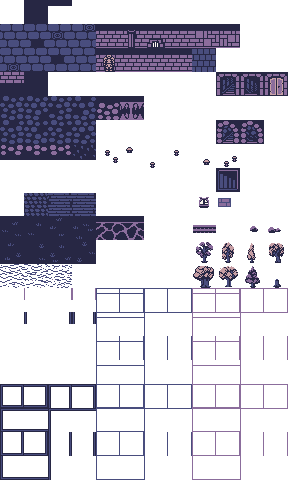
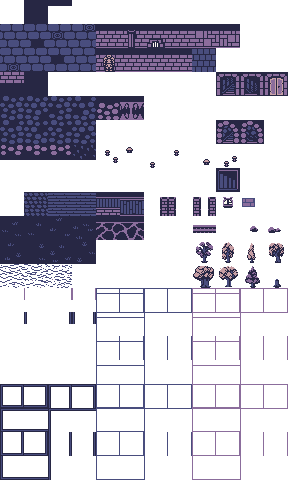
templates, structures, village level

diff --git a/core/src/main/com/ovle/rll3/model/procedural/grid/processor/StructureProcessor.kt b/core/src/main/com/ovle/rll3/model/procedural/grid/processor/StructureProcessor.kt
@@ -1,0 +1,85 @@
+package com.ovle.rll3.model.procedural.grid.processor
+
+import com.badlogic.ashley.core.Engine
+import com.badlogic.ashley.core.Entity
+import com.badlogic.gdx.math.GridPoint2
+import com.ovle.rll3.component1
+import com.ovle.rll3.component2
+import com.ovle.rll3.floatPoint
+import com.ovle.rll3.model.ecs.component.special.LevelDescription
+import com.ovle.rll3.model.ecs.component.special.LevelInfo
+import com.ovle.rll3.model.ecs.component.util.Mappers
+import com.ovle.rll3.model.ecs.entity.newTemplatedEntity
+import com.ovle.rll3.model.template.entity.entityTemplate
+import com.ovle.rll3.model.template.structure.StructureTemplate
+import com.ovle.rll3.model.template.structure.StructureTemplates
+import com.ovle.rll3.model.tile.Tile
+import com.ovle.rll3.model.tile.TileArray
+import com.ovle.rll3.model.tile.TileType
+import com.ovle.rll3.model.tile.whateverTileId
+import com.ovle.rll3.point
+import ktx.ashley.get
+
+data class StructureInfo(val template: StructureTemplate, val positions: Set<GridPoint2>)
+
+class StructureProcessor(val templates: StructureTemplates) : TilesProcessor {
+
+    override fun process(levelInfo: LevelInfo, gameEngine: Engine, levelDescription: LevelDescription) {
+        val tiles = levelInfo.tiles
+        val entities = mutableListOf<Entity>()
+
+        //todo
+        val template = templates.templates.singleOrNull { it.name == "house 1" } ?: return
+        val mask = template.parsedMask
+        val maskWidth = mask.size
+        val maskHeight = mask.maxBy { it.size }!!.size
+
+        val check = Math.random()
+        val chance = 1.0
+        val needSpawn = check <= chance
+
+        //spawn point is the left top corner of mask
+        val spawnPoint = spawnPoint()
+        val (x, y) = spawnPoint
+        if (needSpawn) {
+            val positions = spawnStructure(mask, tiles, y, x)
+            levelInfo.structures.add(StructureInfo(template, positions))
+
+            val entitiesInfo = template.entities
+            entitiesInfo.forEach{
+                (templateName, points) -> spawnEntities(templateName, points, gameEngine, spawnPoint, entities)
+            }
+        }
+
+        levelInfo.objects.plusAssign(entities)
+    }
+
+    private fun spawnEntities(templateName: String, points: Array<Pair<Int, Int>>, gameEngine: Engine, spawnPoint: GridPoint2, entities: MutableList<Entity>) {
+        val entityTemplate = entityTemplate(name = templateName)
+        points.forEach {(x, y) ->
+            val entity = newTemplatedEntity(entityTemplate, gameEngine)
+            entity[Mappers.position]?.position = floatPoint(spawnPoint.x + x.toFloat(), spawnPoint.y - y.toFloat())
+            entities.add(entity)
+        }
+    }
+
+    private fun spawnStructure(mask: List<List<TileType>>, tiles: TileArray, y: Int, x: Int): Set<GridPoint2> {
+        val result = mutableSetOf<GridPoint2>()
+        mask.forEachIndexed { i, _ ->
+            mask[i].forEachIndexed { j, _ ->
+                val tileType = mask[i][j]
+                if (tileType != whateverTileId) {
+                    val resultX = y + j
+                    val resultY = x - i
+
+                    tiles.setTile(resultX, resultY, Tile(tileType))
+                    result.add(point(resultX, resultY))
+                }
+            }
+        }
+        return result
+    }
+
+    //todo
+    private fun spawnPoint() = point(10, 10)
+}

diff --git a/core/src/main/com/ovle/rll3/view/layer/level/village.kt b/core/src/main/com/ovle/rll3/view/layer/level/village.kt
@@ -25,7 +25,7 @@ fun villageTileToTexture(params: TileToTextureParams): TileTextureInfo {
 
     val entities = entitiesOnPosition(levelInfo, position)
     fun hasLevelConnection(x: Int, y: Int): Boolean = hasEntityOnPosition(levelInfo, point(x, y), LevelConnectionComponent::class)
-    fun hasWall(tileId: TileType?) = if (tileId == null || (tileId == wallTileId)) 1 else 0
+    fun hasWall(tileId: TileType?) = if (tileId == null || (tileId == wallTileId) || (tileId == structureWallTileId)) 1 else 0
     fun hasPit(tileId: TileType?) = if (tileId == pitFloorTileId) 1 else 0
 
     val upTileId = nearTiles.upValue?.typeId
@@ -44,10 +44,17 @@ fun villageTileToTexture(params: TileToTextureParams): TileTextureInfo {
     val tileId = nearTiles.value?.typeId
     val isWall = tileId == wallTileId
     val isNextToFloor = upTileId in floorTypes
+    val isRightToFloor = rightTileId in floorTypes
+    val isLeftToFloor = leftTileId in floorTypes
+
+    val isNextToStructureFloor = upTileId == structureFloorTileId
     val isFloor = tileId == roomFloorTileId
     val isPitFloor = tileId == pitFloorTileId
     val isFloorUp = downTileId == roomFloorTileId
     val isPitFloorUp = downTileId == pitFloorTileId
+
+    val isStructureFloor = tileId == structureFloorTileId
+    val isStructureWall = tileId == structureWallTileId
 
     val isLevelConnection = hasLevelConnection(nearTiles.x, nearTiles.y)
     val lightValueType = lightValueType(lightInfo, position, positionDown, isPitFloor, isFloorUp, isWall, false)
@@ -68,11 +75,15 @@ fun villageTileToTexture(params: TileToTextureParams): TileTextureInfo {
     var animationInterval = defaultAnimationInterval * 2
     val tileRegions =  when (layerType) {
         LayerType.Walls -> when {
-            isWall -> arrayOf(indexedTextureTile(wallBorderTileSet, wallBorderTileIndex, regions))
-            isFloor -> arrayOf(indexedTextureTile(floorBorderTileSet, floorBorderTileIndex, regions))
+            isWall || isStructureWall -> arrayOf(indexedTextureTile(wallBorderTileSet, wallBorderTileIndex, regions))
+            isFloor || isStructureFloor-> arrayOf(indexedTextureTile(floorBorderTileSet, floorBorderTileIndex, regions))
             else -> emptyTile
         }
         LayerType.Floor -> when {
+            isStructureWall && isNextToStructureFloor -> arrayOf(regions[8][5])
+            isStructureWall && isNextToFloor -> arrayOf(regions[8][4])
+            isStructureFloor -> arrayOf(regions[8][(2..3).random()])
+
             isWall && isNextToFloor -> arrayOf(regions[9][(4..5).random()])
             isFloor -> arrayOf(regions[(9..10).random()][(0..3).random()])
             isPitFloor -> arrayOf(
@@ -90,6 +101,11 @@ fun villageTileToTexture(params: TileToTextureParams): TileTextureInfo {
                     type == Down -> arrayOf(regions[7][9])
                     else -> throw IllegalStateException("bad connection : type = $type")
                 }
+            }
+            isStructureWall && isNextToFloor && !isNextToStructureFloor -> when {
+                isRightToFloor -> arrayOf(regions[8][6])
+                isLeftToFloor -> arrayOf(regions[8][7])
+                else -> emptyTile
             }
             else -> emptyTile
         }

diff --git a/core/src/main/com/ovle/rll3/model/procedural/config/levelParams.kt b/core/src/main/com/ovle/rll3/model/procedural/config/levelParams.kt
@@ -6,12 +6,14 @@ import com.ovle.rll3.model.procedural.config.LevelFactoryParams.DungeonLevelFact
 import com.ovle.rll3.model.procedural.grid.factory.CelullarAutomataGridFactory
 import com.ovle.rll3.model.procedural.grid.factory.DungeonGridFactory
 import com.ovle.rll3.model.procedural.grid.factory.NoiseGridFactory
-import com.ovle.rll3.model.procedural.grid.processor.EntityTemplatesProcessor
+import com.ovle.rll3.model.procedural.grid.processor.EntityProcessor
 import com.ovle.rll3.model.procedural.grid.processor.RoomStructureProcessor
 import com.ovle.rll3.model.procedural.grid.processor.RoomsInfoProcessor
+import com.ovle.rll3.model.procedural.grid.processor.StructureProcessor
 import com.ovle.rll3.model.procedural.grid.utils.ConnectionStrategy
 import com.ovle.rll3.model.template.TemplatesType.*
 import com.ovle.rll3.model.template.entity.entityTemplates
+import com.ovle.rll3.model.template.structure.structureTemplates
 import com.ovle.rll3.model.util.*
 import com.ovle.rll3.view.layer.level.caveTileToTexture
 import com.ovle.rll3.view.layer.level.dungeonTileToTexture
@@ -31,7 +33,7 @@ val dungeonLevelParams = LevelParams(
     postProcessors = arrayOf(
         RoomsInfoProcessor(),
         RoomStructureProcessor(),
-        EntityTemplatesProcessor(entityTemplates(Dungeon))
+        EntityProcessor(entityTemplates(Dungeon))
     ),
 
     gridValueToTileType = ::dungeonGridValueToTileType,
@@ -46,7 +48,7 @@ val caveLevelParams = LevelParams(
     ),
     gridFactory = CelullarAutomataGridFactory(),
     postProcessors = arrayOf(
-        EntityTemplatesProcessor(entityTemplates(Caves))
+        EntityProcessor(entityTemplates(Caves))
     ),
 
     gridValueToTileType = ::caveGridValueToTileType,
@@ -62,7 +64,8 @@ val villageLevelParams = LevelParams(
     ),
     gridFactory = NoiseGridFactory(),
     postProcessors = arrayOf(
-        EntityTemplatesProcessor(entityTemplates(Village))
+        StructureProcessor(structureTemplates(Village)),
+        EntityProcessor(entityTemplates(Village))
     ),
 
     gridValueToTileType = ::villageGridValueToTileType,

diff --git a/core/src/main/com/ovle/rll3/model/procedural/grid/processor/EntityProcessor.kt b/core/src/main/com/ovle/rll3/model/procedural/grid/processor/EntityProcessor.kt
@@ -18,18 +18,19 @@ import com.ovle.rll3.point
 import com.ovle.rll3.random
 import ktx.ashley.get
 
-//todo templates may be different?
-class EntityTemplatesProcessor(val templates: EntityTemplates) : TilesProcessor {
+class EntityProcessor(val templates: EntityTemplates) : TilesProcessor {
 
     override fun process(levelInfo: LevelInfo, gameEngine: Engine, levelDescription: LevelDescription) {
         val tiles = levelInfo.tiles
+        //some cells can be claimed by other processors
+        val claimed = levelInfo.objects.mapNotNull { it[position]?.gridPosition }.toSet()
         val entities = mutableListOf<Entity>()
         val spawnTemplates = templates.templates.filter { it.spawns.isNotEmpty() }
 
-        //todo not spawn on level connection!
-
         for (x in 0 until tiles.size) {
             for (y in 0 until tiles.size) {
+                if (point(x, y) in claimed) continue
+
                 val nearTiles = nearValues(tiles, x, y)
                 val spawnDatas = spawnTemplates
                     .map { it to it.spawns.filter { spawn -> matchesTemplate(spawn, nearTiles) } }

diff --git a/core/src/main/com/ovle/rll3/model/ecs/system/LevelSystem.kt b/core/src/main/com/ovle/rll3/model/ecs/system/LevelSystem.kt
@@ -16,6 +16,7 @@ import com.ovle.rll3.model.ecs.entity.*
 import com.ovle.rll3.model.ecs.system.level.ConnectionId
 import com.ovle.rll3.model.ecs.system.level.LevelRegistry
 import com.ovle.rll3.model.procedural.grid.processor.LevelConnectionProcessor
+import com.ovle.rll3.model.template.TemplatesType
 import com.ovle.rll3.model.template.entity.entityTemplate
 import com.ovle.rll3.model.util.gridToTileArray
 import com.ovle.rll3.point
@@ -58,7 +59,7 @@ class LevelSystem: EventSystem() {
         var interactionEntity = entityWith(entities, PlayerInteractionComponent::class)
         if (interactionEntity != null) playerEntity = interactionEntity[playerInteraction]?.controlledEntity
 
-        val playerTemplate = entityTemplate(name = playerInfo.templateName)
+        val playerTemplate = entityTemplate(TemplatesType.Common, playerInfo.templateName)
         if (playerEntity == null) playerEntity = newTemplatedEntity(playerTemplate, engine)
 
         val startPosition = playerStartPosition(newLevel, oldConnection)

diff --git a/core/src/main/com/ovle/rll3/model/template/entity/util.kt b/core/src/main/com/ovle/rll3/model/template/entity/util.kt
@@ -5,10 +5,13 @@ import com.ovle.rll3.model.template.TemplatesType
 import com.ovle.rll3.model.template.TemplatesType.Common
 
 fun entityTemplates(type: TemplatesType = Common): EntityTemplates {
-    val result = TemplatesRegistry.entityTemplates.getValue(Common).templates.toMutableList()
-    if (type != Common) result += TemplatesRegistry.entityTemplates.getValue(type).templates
+    val entityTemplates = TemplatesRegistry.entityTemplates
+    val result = entityTemplates.getValue(Common).templates.toMutableList()
+    if (type != Common) result += entityTemplates.getValue(type).templates
     return EntityTemplates(result)
 }
 
-fun entityTemplate(type: TemplatesType = Common, name: String) =
-    entityTemplates(type).templates.single { it.name == name }
+fun entityTemplate(type: TemplatesType? = null, name: String) =
+    (if (type == null) TemplatesRegistry.entityTemplates.values.flatMap { it.templates }
+     else entityTemplates(type).templates)
+        .single { it.name == name }

diff --git a/core/src/main/com/ovle/rll3/model/template/structure/util.kt b/core/src/main/com/ovle/rll3/model/template/structure/util.kt
@@ -1,0 +1,15 @@
+package com.ovle.rll3.model.template.structure
+
+import com.ovle.rll3.model.template.TemplatesRegistry
+import com.ovle.rll3.model.template.TemplatesType
+import com.ovle.rll3.model.template.TemplatesType.Common
+
+fun structureTemplates(type: TemplatesType = Common): StructureTemplates {
+    val structureTemplates = TemplatesRegistry.structureTemplates
+    val result = structureTemplates.getValue(Common).templates.toMutableList()
+    if (type != Common) result += structureTemplates.getValue(type).templates
+    return StructureTemplates(result)
+}
+
+fun structureTemplate(type: TemplatesType = Common, name: String) =
+    structureTemplates(type).templates.single { it.name == name }

diff --git a/core/src/main/com/ovle/rll3/model/util/mappers.kt b/core/src/main/com/ovle/rll3/model/util/mappers.kt
@@ -42,7 +42,7 @@ fun villageGridValueToTileType(gridValue: Float): TileType {
 }
 
 fun entityTilePassMapper(tile: Tile) = when(tile.typeId) {
-    wallTileId -> TilePassType.Solid
+    wallTileId, structureWallTileId -> TilePassType.Solid
     pitFloorTileId -> TilePassType.Restricted
     else -> TilePassType.Passable
 }
@@ -50,7 +50,7 @@ fun entityTilePassMapper(tile: Tile) = when(tile.typeId) {
 fun lightTilePassMapperTrue(tile: Tile) = LightPassType.Passable
 
 fun lightTilePassMapper(tile: Tile) = when(tile.typeId) {
-    wallTileId -> LightPassType.Solid
+    wallTileId, structureWallTileId -> LightPassType.Solid
     else -> LightPassType.Passable
 }
 

diff --git a/core/src/main/com/ovle/rll3/model/ecs/component/special/LevelComponent.kt b/core/src/main/com/ovle/rll3/model/ecs/component/special/LevelComponent.kt
@@ -5,6 +5,7 @@ import com.badlogic.ashley.core.Entity
 import com.ovle.rll3.model.ecs.system.level.LevelDescriptionId
 import com.ovle.rll3.model.ecs.system.level.LevelId
 import com.ovle.rll3.model.procedural.grid.processor.RoomInfo
+import com.ovle.rll3.model.procedural.grid.processor.StructureInfo
 import com.ovle.rll3.model.tile.TileArray
 import java.util.*
 
@@ -15,6 +16,7 @@ data class LevelInfo(
 ) {
     val rooms: MutableCollection<RoomInfo> = mutableListOf()
     val objects: MutableCollection<Entity> = mutableListOf()
+    val structures: MutableCollection<StructureInfo> = mutableListOf()
 }
 
 class LevelComponent(var level: LevelInfo): Component

diff --git a/core/src/main/com/ovle/rll3/model/template/structure/StructureTemplate.kt b/core/src/main/com/ovle/rll3/model/template/structure/StructureTemplate.kt
@@ -11,9 +11,15 @@ data class StructureTemplate(
     var version: String = "0.1",
     var description: String = "",
     var spawns: Collection<SpawnTemplate> = listOf(),
-    var mask: String = ""
+    var mask: String = "",
+    var entities: Collection<StructureEntity> = listOf()
 ) {
-    val parsedMask: List<List<TileType>>? by lazy {
-        parsedMask(mask)
+    val parsedMask: List<List<TileType>> by lazy {
+        parsedMask(mask)!!
     }
 }
+
+data class StructureEntity(
+    var name: String = "",
+    var points: Array<Pair<Int, Int>> = arrayOf()
+)

diff --git a/core/src/main/com/ovle/rll3/model/procedural/grid/room.kt b/core/src/main/com/ovle/rll3/model/procedural/grid/room.kt
@@ -6,8 +6,8 @@ import com.ovle.rll3.model.procedural.grid.processor.RoomInfo
 import com.ovle.rll3.model.tile.*
 import java.lang.Math.random
 
-val roomFloorTypes = setOf(roomFloorTileId, pitFloorTileId)
-val floorTypes = setOf(roomFloorTileId, pitFloorTileId, corridorFloorTileId)
+val roomFloorTypes = setOf(roomFloorTileId, pitFloorTileId, structureFloorTileId)
+val floorTypes = setOf(roomFloorTileId, pitFloorTileId, corridorFloorTileId, structureFloorTileId)
 
 enum class RoomStructure {
     Nop {

diff --git a/core/src/main/com/ovle/rll3/screen/game/GameScreen.kt b/core/src/main/com/ovle/rll3/screen/game/GameScreen.kt
@@ -40,6 +40,7 @@ class GameScreen(
         val levelTexturesInfo = TexturesInfo(assetsManager.levelTexture)
         val objectsTextureInfo = TexturesInfo(assetsManager.objectsTexture)
         TemplatesRegistry.entityTemplates = assetsManager.entityTemplates
+        TemplatesRegistry.structureTemplates = assetsManager.structureTemplates
 
         val camera = batchViewport.camera as OrthographicCamera
 
